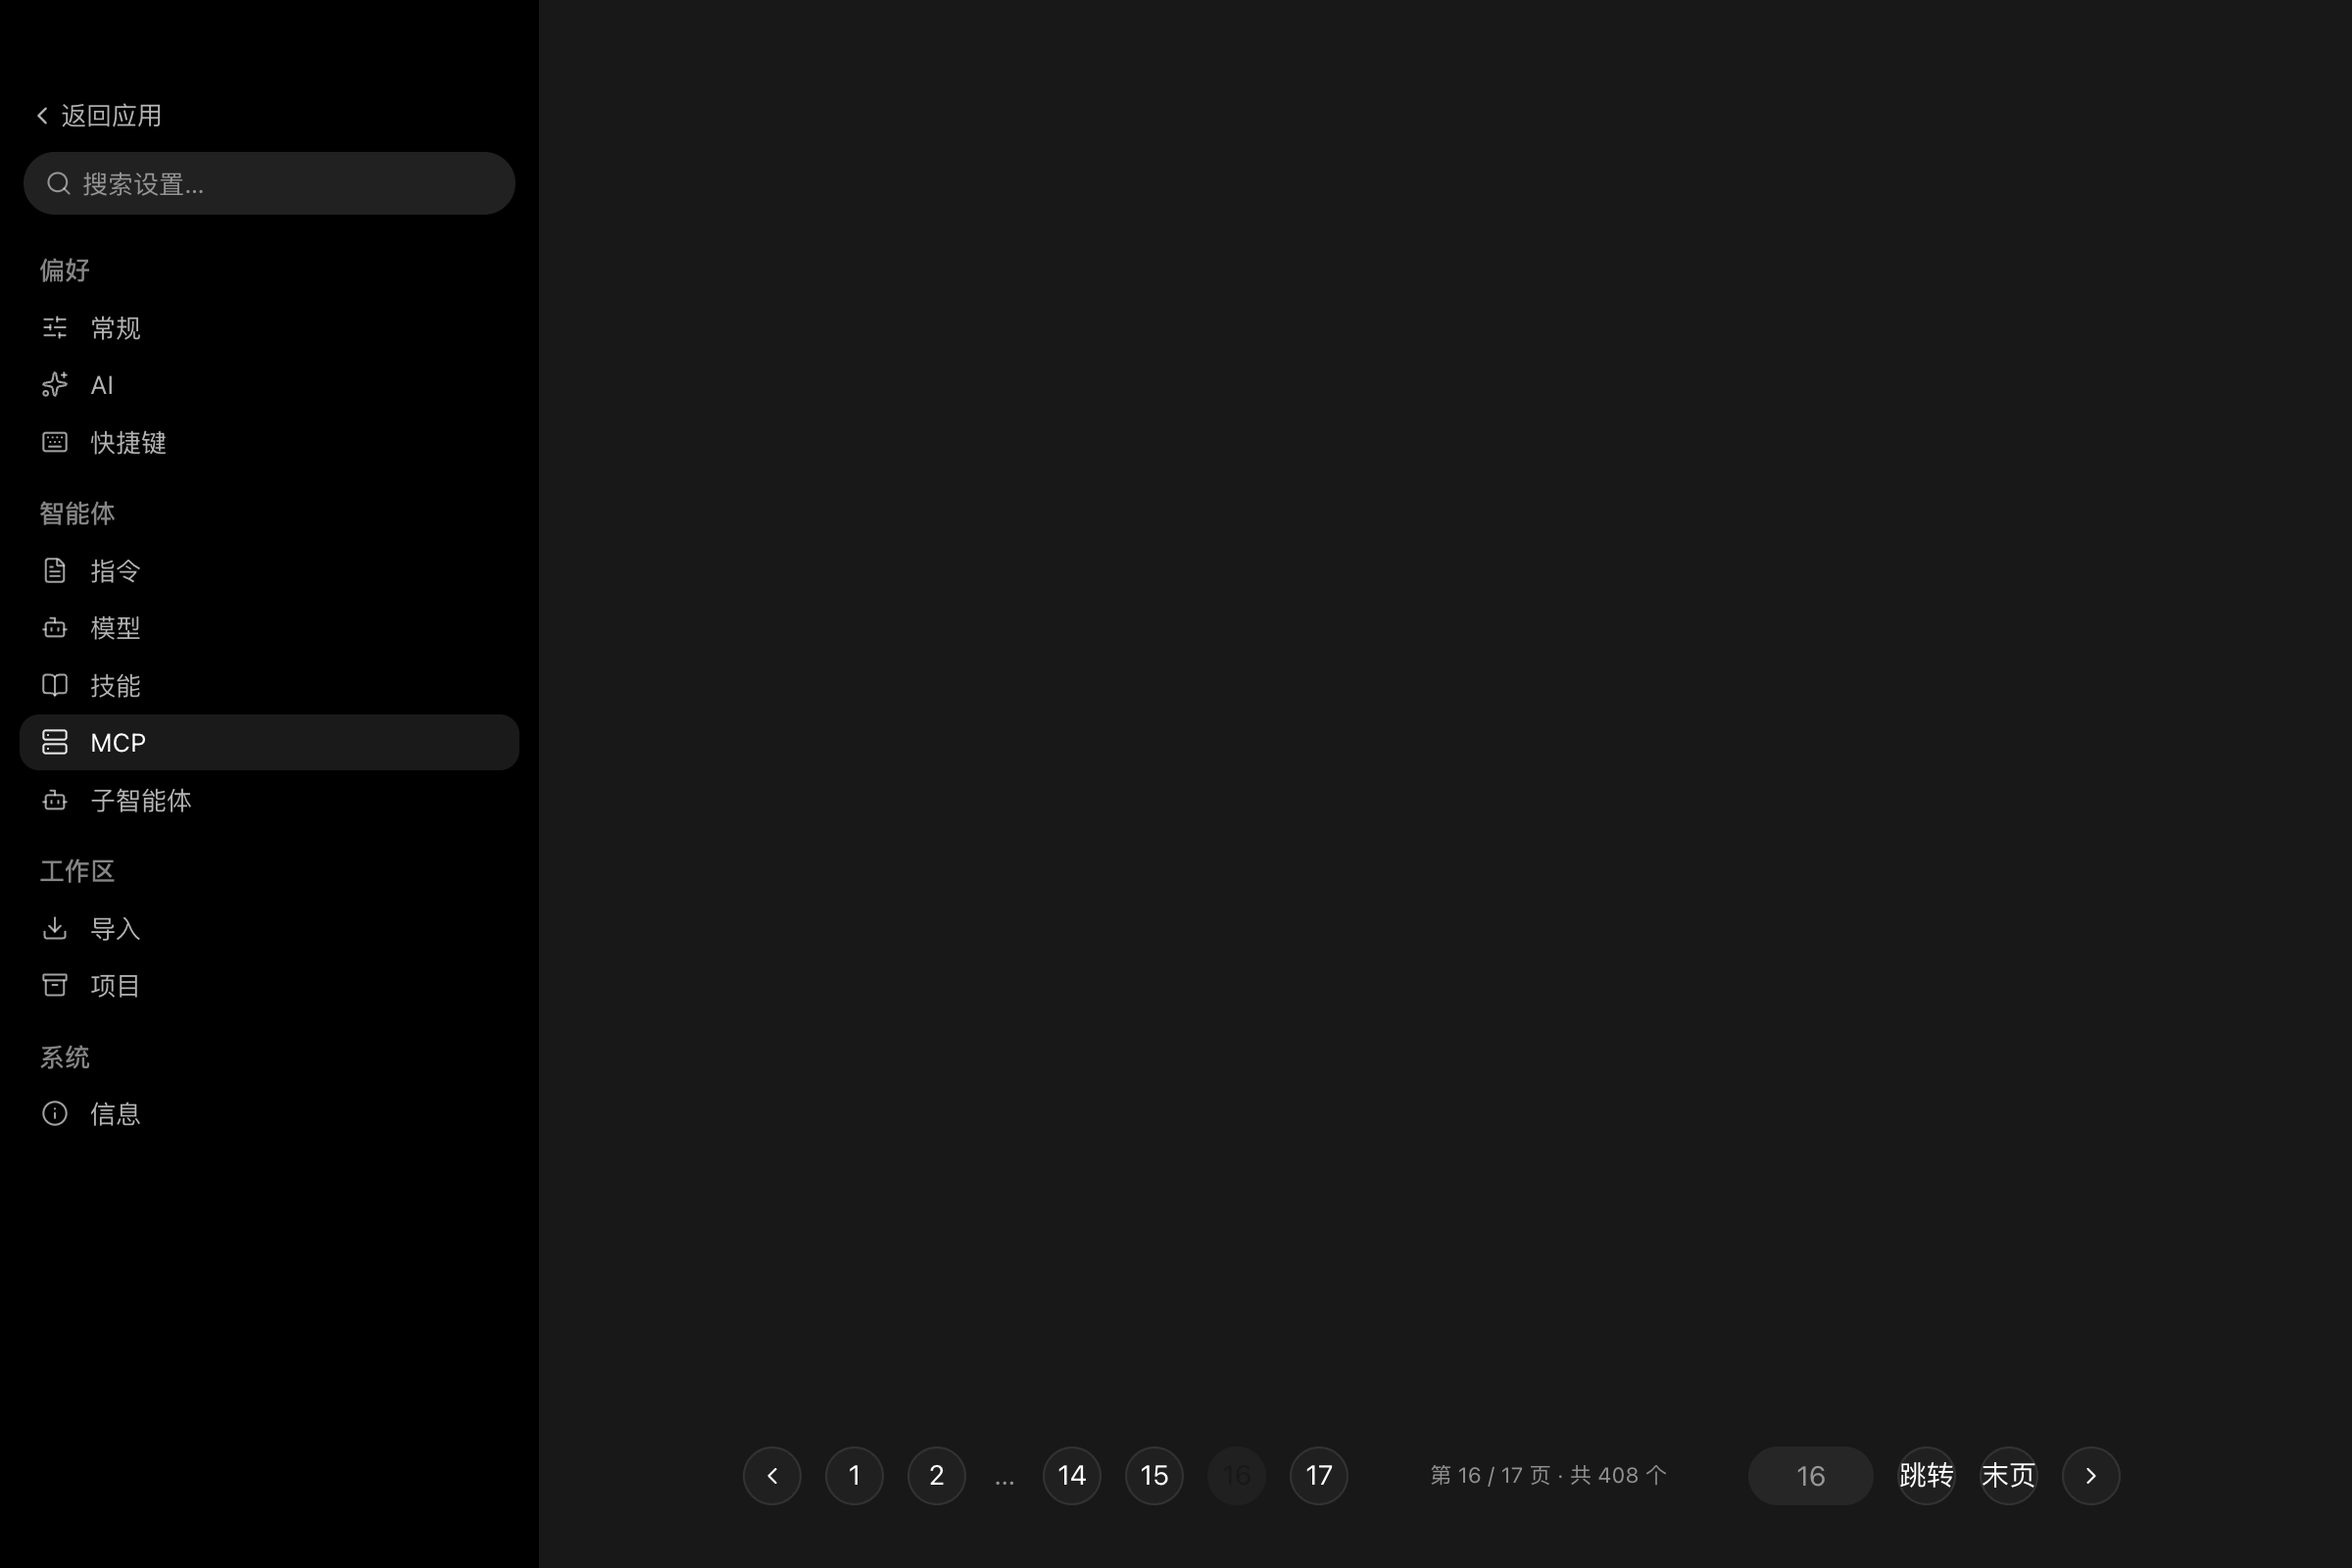
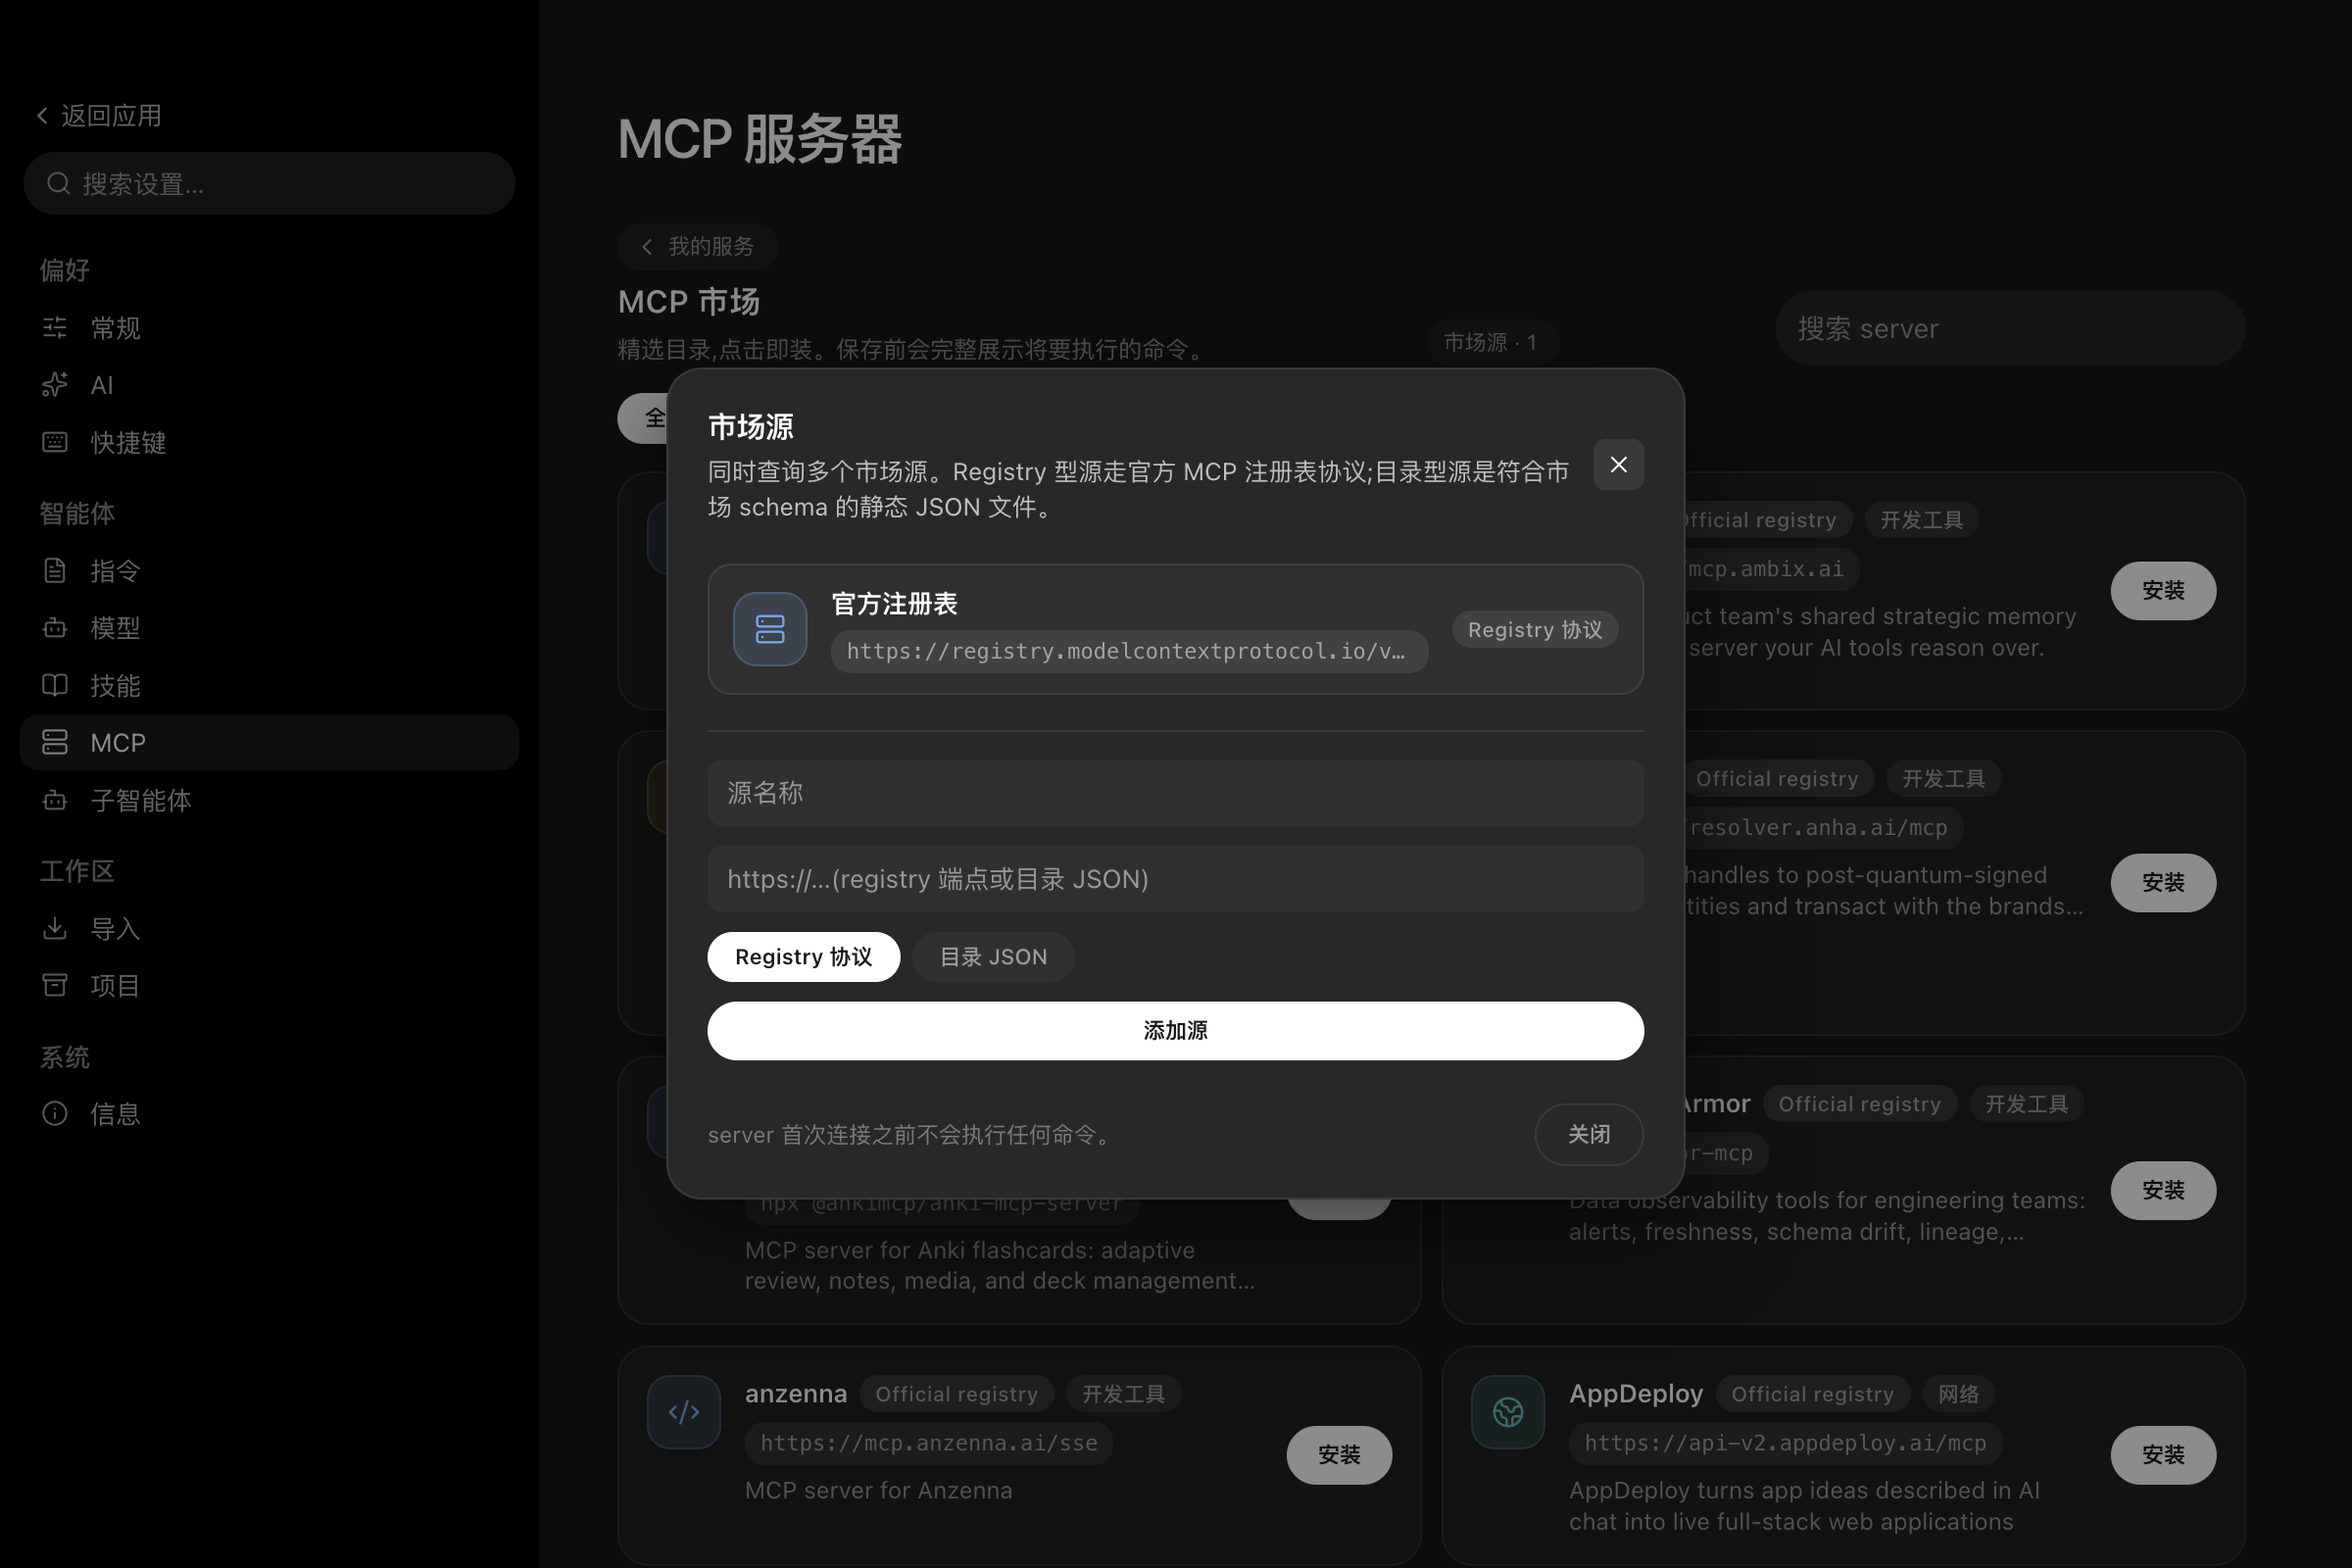
refactor: drop the pager's go/last buttons
Typing a page number and pressing Enter already covers both, so the
two buttons only added noise.

diff --git a/apps/desktop/src/components/settings/McpMarketPanel.tsx b/apps/desktop/src/components/settings/McpMarketPanel.tsx
@@ -673,17 +673,6 @@ export function McpMarketPanel({
               if (event.key === "Enter") doJump();
             }}
           />
-          <button type="button" className="mcpm-page-btn" onClick={doJump}>
-            {t("settings.mcpMarket.pageJump")}
-          </button>
-          <button
-            type="button"
-            className="mcpm-page-btn"
-            disabled={currentPage >= totalPages}
-            onClick={() => setPage(totalPages)}
-          >
-            {t("settings.mcpMarket.pageLast")}
-          </button>
 
           <button
             type="button"

diff --git a/packages/i18n/src/locales/ko/index.ts b/packages/i18n/src/locales/ko/index.ts
@@ -732,7 +732,6 @@ export const ko = {
       pageInfo: "{{page}} / {{pages}} 페이지 · 총 {{total}}개",
       pagePrev: "이전 페이지",
       pageNext: "다음 페이지",
-      pageLast: "마지막",
       pageJump: "이동",
       empty: "일치하는 서버 없음",
     },

diff --git a/packages/i18n/src/locales/fr/index.ts b/packages/i18n/src/locales/fr/index.ts
@@ -720,7 +720,6 @@ export const fr = {
       pageInfo: "Page {{page}} sur {{pages}} · {{total}} serveurs",
       pagePrev: "Précédente",
       pageNext: "Suivante",
-      pageLast: "Dernière",
       pageJump: "Aller",
       empty: "Aucun serveur correspondant",
     },

diff --git a/packages/i18n/src/locales/es/index.ts b/packages/i18n/src/locales/es/index.ts
@@ -720,7 +720,6 @@ export const es = {
       pageInfo: "Página {{page}} de {{pages}} · {{total}} servidores",
       pagePrev: "Anterior",
       pageNext: "Siguiente",
-      pageLast: "Última",
       pageJump: "Ir",
       empty: "Ningún servidor coincide",
     },

diff --git a/packages/i18n/src/locales/zh-CN/index.ts b/packages/i18n/src/locales/zh-CN/index.ts
@@ -727,7 +727,6 @@ export const zhCN = {
       pageInfo: "第 {{page}} / {{pages}} 页 · 共 {{total}} 个",
       pagePrev: "上一页",
       pageNext: "下一页",
-      pageLast: "末页",
       pageJump: "跳转",
       empty: "没有匹配的 server",
     },

diff --git a/packages/i18n/src/locales/zh-TW/index.ts b/packages/i18n/src/locales/zh-TW/index.ts
@@ -727,7 +727,6 @@ export const zhTW = {
       pageInfo: "第 {{page}} / {{pages}} 頁 · 共 {{total}} 個",
       pagePrev: "上一頁",
       pageNext: "下一頁",
-      pageLast: "末頁",
       pageJump: "跳轉",
       empty: "沒有符合的 server",
     },

diff --git a/packages/i18n/src/locales/tr/index.ts b/packages/i18n/src/locales/tr/index.ts
@@ -732,7 +732,6 @@ export const tr = {
       pageInfo: "Sayfa {{page}} / {{pages}} · {{total}} sunucu",
       pagePrev: "Önceki sayfa",
       pageNext: "Sonraki sayfa",
-      pageLast: "Son",
       pageJump: "Git",
       empty: "Eşleşen sunucu yok",
     },

diff --git a/packages/i18n/src/locales/de/index.ts b/packages/i18n/src/locales/de/index.ts
@@ -720,7 +720,6 @@ export const de = {
       pageInfo: "Seite {{page}} von {{pages}} · {{total}} Server",
       pagePrev: "Zurück",
       pageNext: "Weiter",
-      pageLast: "Letzte",
       pageJump: "Los",
       empty: "Keine Server gefunden",
     },

diff --git a/packages/i18n/src/locales/en/index.ts b/packages/i18n/src/locales/en/index.ts
@@ -730,7 +730,6 @@ export const en = {
       pageInfo: "Page {{page}} of {{pages}} · {{total}} servers",
       pagePrev: "Previous page",
       pageNext: "Next page",
-      pageLast: "Last",
       pageJump: "Go",
       empty: "No servers match",
     },
